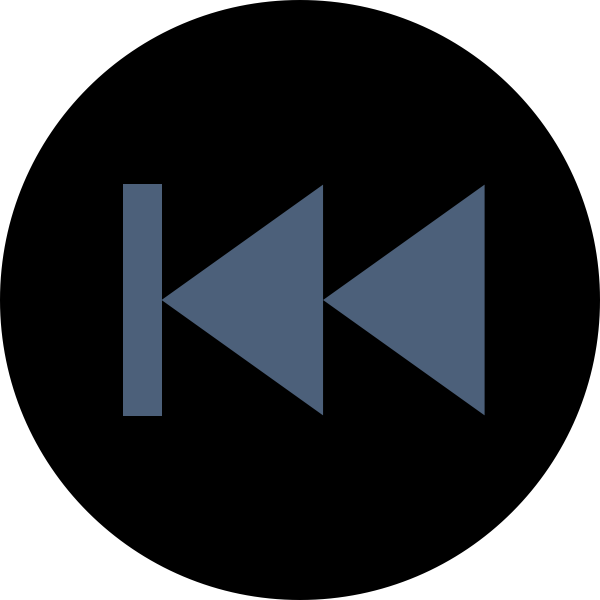
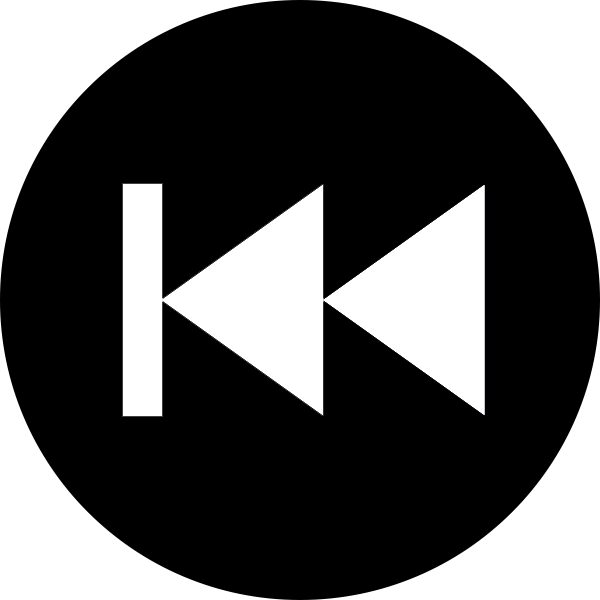
swiper test

Changed region(s): [[0.18, 0.3, 0.81, 0.72]]

diff --git a/src/index.html b/src/index.html
@@ -13,6 +13,7 @@
     <link href="https://fonts.googleapis.com/css?family=Roboto+Condensed" rel="stylesheet">
     <title>Deconstructed: Russian Psyops</title>
     <link rel="canonical" href="https://tomxbarnesx.github.io/detour-alt-master/" />
+    <link rel="stylesheet" href="https://cdnjs.cloudflare.com/ajax/libs/Swiper/4.5.0/css/swiper.min.css">
     <meta name="viewport"
         content="width=device-width,minimum-scale=1,initial-scale=1">
     <style amp-boilerplate>body{-webkit-animation:-amp-start 8s steps(1,end) 0s 1 normal both;-moz-animation:-amp-start 8s steps(1,end) 0s 1 normal both;-ms-animation:-amp-start 8s steps(1,end) 0s 1 normal both;animation:-amp-start 8s steps(1,end) 0s 1 normal both}@-webkit-keyframes -amp-start{from{visibility:hidden}to{visibility:visible}}@-moz-keyframes -amp-start{from{visibility:hidden}to{visibility:visible}}@-ms-keyframes -amp-start{from{visibility:hidden}to{visibility:visible}}@-o-keyframes -amp-start{from{visibility:hidden}to{visibility:visible}}@keyframes -amp-start{from{visibility:hidden}to{visibility:visible}}</style><noscript><style amp-boilerplate>body{-webkit-animation:none;-moz-animation:none;-ms-animation:none;animation:none}</style></noscript>
@@ -70,10 +71,10 @@
         box-shadow: 0px 0px 20px 2px rgb(43, 43, 43);  
       }
       .button-style {
-        color: #4c617a;
+        color: white;
         font-family: Futura;
         background-color: black;
-        border: 5px solid #4c617a;
+        border: 5px solid white;
         font-size: 175%;
         z-index: 9999;
         cursor: pointer;
@@ -95,7 +96,10 @@
         width: 25%;
         position: absolute;
         top: 1%;
-        left: 1%;
+        right: 8%;
+      }
+      #detour-return {
+        margin-left: 3.5em; 
       }
       .detour-tool {
         width: 3em;
@@ -313,6 +317,41 @@
           width: 4em;
         }
       }
+
+      /*SWIPER EXPERIMENTS*/
+      .swiper-container {
+        width: 100%;
+        height: 100%;
+      }
+
+      .swiper-slide {
+        color: white;
+      }
+
+      .swiper-flex {
+        display: flex;
+        height: 100%;
+        width: 75%;
+        align-items: center;
+      }
+
+      .swiper-text {
+        padding: 4em;
+        font-family: Futura;
+        font-size: 100%;      
+      }
+
+      .swiper-button-next, .swiper-button-prev {
+        background-size: 25px 25px;
+    }
+
+    .swiper-pagination-bullet {
+      opacity: .8; /*was 0.2 and was impossible to see on some background images*/
+    }
+    .swiper-pagination-bullet-active {
+      background: #ffffff;
+    }
+      
     </style>
   </head>
   <body>
@@ -446,7 +485,7 @@
           </amp-story-cta-layer>
         </amp-story-page>
         
-        <amp-story-page
+        <!-- <amp-story-page
           id="Part1"
           name="Part1"
         >
@@ -469,7 +508,7 @@
               <a class="detour-trigger"><div class="detour-button button-style">CNN</div></a>
             </div>
           </amp-story-cta-layer>
-        </amp-story-page>
+        </amp-story-page> -->
 
 
     
@@ -480,20 +519,89 @@
       <div id="detour-vid-container">
         <div id="DetourLanding"></div>
         <div class="detour-tool-box">
-          <a id="detour-return"><div class="return-ring"><img class="return-button detour-tool" src="./images/up.png"/></div></a>
           <a id="detour-restart"><img class="restart-button detour-tool" src="./images/replay.png"/></a>
+          <a id="detour-return"><div class="return-ring"><img class="return-button detour-tool" src="./images/up.png"/></div></a>
         </div>
-        <video class="detour-vid" src="./videos/RP3.mp4" style="display: none" playsinline>
-        </video>
-        <video class="detour-vid" src="./videos/RP4.mp4" style="display: none" playsinline>
-        </video>
-        <video class="detour-vid" src="./videos/RP5.mp4" style="display: none" playsinline>
-        </video>
+            
+            <div class="swiper-container">
+              <!-- Additional required wrapper -->
+              <div class="swiper-wrapper">
+                  <!-- Slides -->
+                <div class="swiper-slide">
+                  <div class="swiper-flex">
+                    <div class="swiper-text">
+                      <p>Honduras is a country in Central America with a population of around 9 million people. It gained independence from Spain  in 1821 and slowly experienced a similar fate as its Central American neighbors. U.S. companies like the United Fruit Company — later Chiquita — moved into Honduras with big tax exemptions and land handouts.</p><p>They exported Honduran bananas but contributed little to the growth of the country’s economy.</p>
+                    </div>
+                  </div>
+                </div>
+
+                <div class="swiper-slide">
+                  <div class="swiper-flex">
+                    <div class="swiper-text">
+                        <p>The term “banana republic”, used to describe a country that relies on one main export like bananas and is usually exploited for its resources by foreign interests, was first used in 1904 by the writer O. Henry to describe a fictionalized version of Honduras.</p>
+                    </div>
+                  </div>
+                </div>
+
+                <div class="swiper-slide">
+                  <div class="swiper-flex">
+                    <div class="swiper-text">
+                        <p><em>"The consul was interested in his report. He was only twenty-four; and he had not been in Coralio long enough for his enthusiasm to cool in the heat of the tropics—a paradox that may be allowed between Cancer and Capricorn.</em></p>
+                        <p><em>"So many thousand bunches of bananas, so many thousand oranges and cocoanuts, so many ounces of gold dust, pounds of rubber, coffee, indigo and sarsaparilla—actually, exports were twenty per cent. Greater than for the previous year!"</em></p> 
+                        <p>— From O. Henry’s Cabbages and Kings</p>    
+                    </div>
+                  </div>
+                </div>
+                  ...
+              </div>
+
+              <!-- If we need pagination -->
+              <div class="swiper-pagination"></div>
+          
+              <!-- If we need navigation buttons -->
+              <div class="swiper-button-prev swiper-button-white"></div>
+              <div class="swiper-button-next swiper-button-white"></div>
+          
+              <!-- If we need scrollbar -->
+              <div class="swiper-scrollbar"></div>
+            </div>
         
-      </div>
+          <!-- <video class="detour-vid" src="./videos/RP3.mp4" style="display: none" playsinline>
+          </video>
+          <video class="detour-vid" src="./videos/RP4.mp4" style="display: none" playsinline>
+          </video>
+          <video class="detour-vid" src="./videos/RP5.mp4" style="display: none" playsinline>
+          </video> -->
+          
+        </div>
     </div>
 
-
+    <script src="https://cdnjs.cloudflare.com/ajax/libs/Swiper/4.5.0/js/swiper.min.js"></script>
+    <script>
+        var mySwiper = new Swiper ('.swiper-container', {
+          // Optional parameters
+          direction: 'horizontal',
+          loop: true,
+          // noSwiping: true,
+          // simulateTouch: false,
+      
+          // If we need pagination
+          pagination: {
+            el: '.swiper-pagination',
+          },
+      
+          // Navigation arrows
+          navigation: {
+            nextEl: '.swiper-button-next',
+            prevEl: '.swiper-button-prev',
+          },
+      
+          // And if we need scrollbar
+          scrollbar: {
+            el: '.swiper-scrollbar',
+          },
+        })
+      </script>
 </body>
 <style>
       .i-amphtml-story-progress-bar {

diff --git a/src/detour.js b/src/detour.js
@@ -17,7 +17,7 @@ window.addEventListener('resize', () => {
 
 let detourTriggers = document.getElementsByClassName("detour-trigger");
 let detourButtons = document.getElementsByClassName("detour-button");
-let detourVids = document.getElementsByClassName("detour-vid");
+// let detourVids = document.getElementsByClassName("detour-vid");
 let detourReturn = document.getElementById("detour-return");
 let detourRestart = document.getElementById("detour-restart");
 let returnRing = document.getElementsByClassName("return-ring")[0];
@@ -31,20 +31,20 @@ for (let i = 0; i < detourTriggers.length; i++) {
     detourTriggers[i].addEventListener("click", event => {
         document.getElementById('DetourLanding').scrollIntoView({behavior:"smooth"});
         active = event.target.id.slice(-1);
-        detourVids[active].style.display = "block";
-        detourVids[active].play();
+        // detourVids[active].style.display = "block";
+        // detourVids[active].play();
     });
-    detourVids[i].addEventListener("ended", event => {
-        returnRing.id = "ring"
-    })
+    // detourVids[i].addEventListener("ended", event => {
+    //     returnRing.id = "ring"
+    // })
 };
 
 // ADD EVENT LISTENER TO THE RETURN SCROLL
 
 detourReturn.addEventListener("click", function(){
     document.getElementById('return-target').scrollIntoView({behavior:"smooth"});
-    detourVids[active].pause();
-    detourVids[active].style.display = "none";
+    // detourVids[active].pause();
+    // detourVids[active].style.display = "none";
     if (returnRing.id == "ring") {
         returnRing.removeAttribute("id");
     }
@@ -52,9 +52,9 @@ detourReturn.addEventListener("click", function(){
 
 // RESTART BUTTON EVENT LISTENER
 
-detourRestart.addEventListener("click", function() {
-    detourVids[active].currentTime = 0;
-    if (returnRing.id == "ring") {
-        returnRing.removeAttribute("id");
-    }
-})
+// detourRestart.addEventListener("click", function() {
+//     detourVids[active].currentTime = 0;
+//     if (returnRing.id == "ring") {
+//         returnRing.removeAttribute("id");
+//     }
+// })
